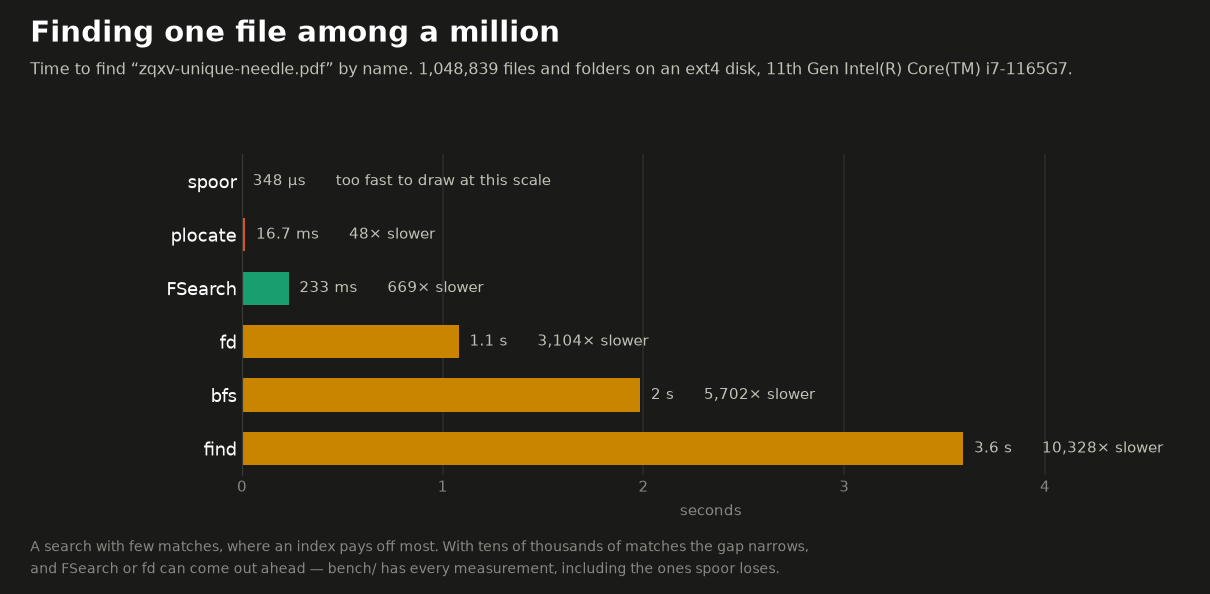
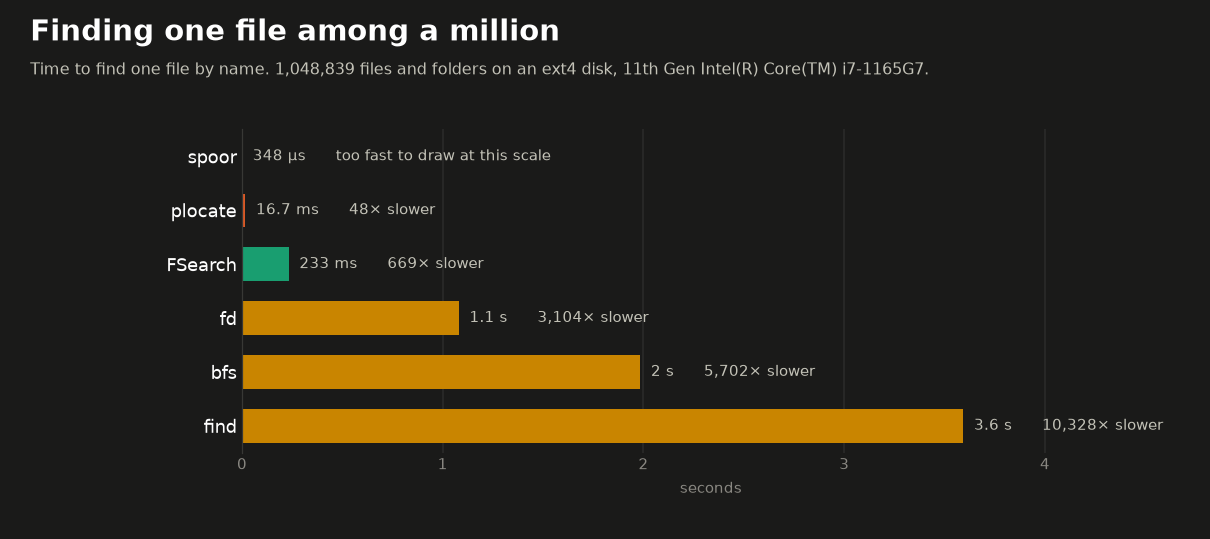
Trim the headline chart to the comparison itself
The test file's name said nothing, and the caveat about searches with
many matches reads better as prose under the image than as a footnote
inside it.

diff --git a/bench/plot.py b/bench/plot.py
@@ -237,20 +237,20 @@ def draw_simple(r, theme):
 
     Linear is the honest reading of "how long do I wait", but it flattens
     everything under a second into the baseline, so every bar carries its own
-    number and the caption says which search this is."""
+    number. The caveats live in the README beside the image."""
     t = THEMES[theme]
     plt.rcParams["font.family"] = ["DejaVu Sans"]
-    fig = plt.figure(figsize=(11, 5.4), facecolor=t["surface"])
-    ax = fig.add_axes([0.2, 0.2, 0.775, 0.54])
+    fig = plt.figure(figsize=(11, 4.9), facecolor=t["surface"])
+    ax = fig.add_axes([0.2, 0.16, 0.775, 0.60])
     m, b = r["machine"], r["build"]
     q = r["search"][0]
     fsearch = (r.get("fsearch") or {}).get("search_s", {}).get(q["pattern"])
 
-    fig.text(0.025, 0.93, "Finding one file among a million", color=t["ink"],
+    fig.text(0.025, 0.925, "Finding one file among a million", color=t["ink"],
              fontsize=19, fontweight="bold")
-    fig.text(0.025, 0.875,
-             f"Time to find “{q['pattern']}” by name. {b['entries']:,} files and "
-             f"folders on an {m['filesystem']} disk, {m['cpu'].split('@')[0].strip()}.",
+    fig.text(0.025, 0.862,
+             f"Time to find one file by name. {b['entries']:,} files and folders "
+             f"on an {m['filesystem']} disk, {m['cpu'].split('@')[0].strip()}.",
              color=t["ink2"], fontsize=10.5)
 
     rows = [("spoor", q["spoor_socket_s"], "spoor")]
@@ -282,12 +282,6 @@ def draw_simple(r, theme):
     ax.tick_params(axis="x", colors=t["muted"], length=0, labelsize=9.5)
     ax.tick_params(axis="y", colors=t["ink"], length=0, labelsize=12)
     ax.set_xlabel("seconds", color=t["muted"], fontsize=9.5, labelpad=6)
-
-    fig.text(0.025, 0.035,
-             "A search with few matches, where an index pays off most. With tens of "
-             "thousands of matches the gap narrows,\nand FSearch or fd can come out "
-             "ahead — bench/ has every measurement, including the ones spoor loses.",
-             color=t["muted"], fontsize=9, linespacing=1.6)
 
     out = os.path.join(DOCS, f"benchmark-{theme}.png")
     fig.savefig(out, dpi=110, facecolor=t["surface"])
